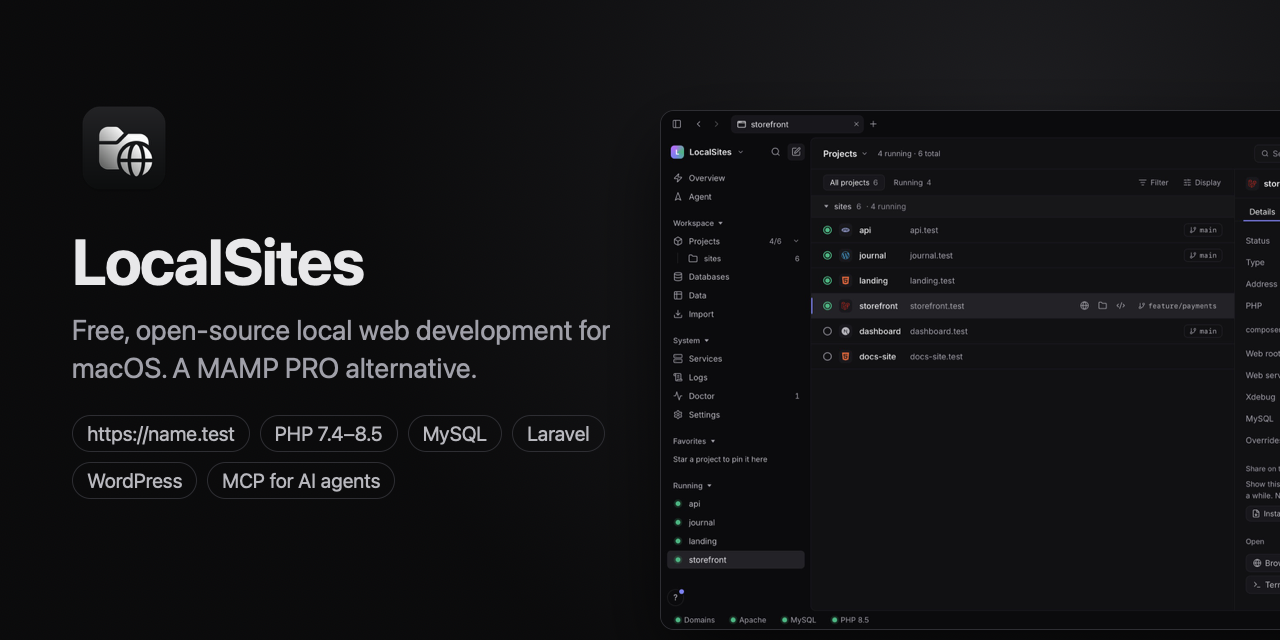
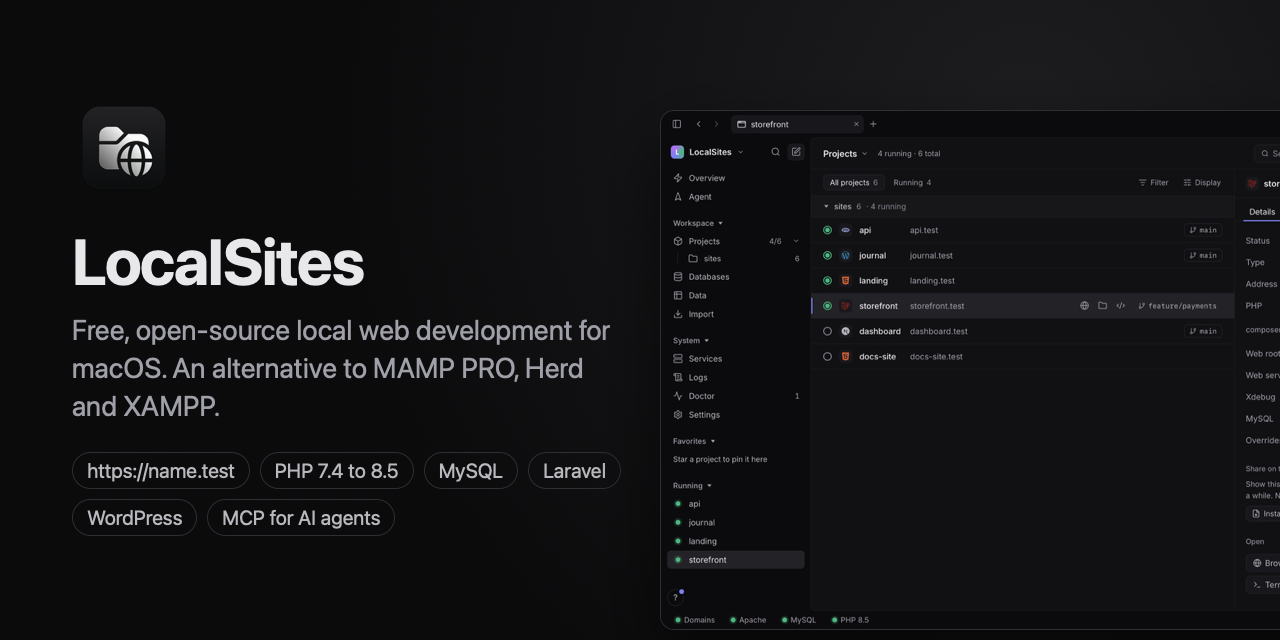
Remove en and em dashes from the website, README, docs and app text; plainer README intro and website copy; social preview lists MAMP PRO, Herd and XAMPP

Changed region(s): [[0.0625, 0.5625, 0.4688, 0.8438]]

diff --git a/desktop/frontend/dist/app.js b/desktop/frontend/dist/app.js
@@ -722,7 +722,7 @@ function row(s) {
 }
 
 /* --- detail panel --- */
-const statusIcon = { ok: '<span class="ok">✓</span>', warn: '<span class="warnc">!</span>', fail: '<span class="bad">✗</span>', skip: '<span class="note">–</span>' };
+const statusIcon = { ok: '<span class="ok">✓</span>', warn: '<span class="warnc">!</span>', fail: '<span class="bad">✗</span>', skip: '<span class="note">-</span>' };
 function checksTable(checks, withArea = true) {
   let area = '', h = '';
   for (const c of checks) {
@@ -823,7 +823,7 @@ function detailsPane(s) {
         <button class="btn" data-app="${prefApp('terminal').id}" data-folder="${esc(s.folder)}">${icon.terminal}${esc(prefApp('terminal').name)}</button>
         <button class="btn" data-app="${prefApp('editor').id}" data-folder="${esc(s.folder)}">${icon.code}${esc(prefApp('editor').name)}</button></div>
       ${s.git ? `<div class="st">Git<span class="spacer"></span><button class="btn ghost sm" data-dpane="git">${icon.branch}Open git</button></div>
-        <div class="kv"><span>Branch</span><code>${esc(s.git.branch || '—')}</code></div>
+        <div class="kv"><span>Branch</span><code>${esc(s.git.branch || 'none')}</code></div>
         ${s.git.account ? `<div class="kv"><span>Account</span><span class="form-row" style="gap:6px">${hostIcon(s.git.host)}${esc(s.git.account)}${s.git.host && !/\./.test(s.git.host) ? ` <span class="note">(SSH alias ${esc(s.git.host)})</span>` : ''}</span></div>` : ''}
         ${s.git.repo ? `<div class="kv"><span>Repository</span><span>${esc(s.git.repo)}</span></div>` : ''}` : ''}
       ${!valet && s.runtime !== 'none' ? `<div class="st">Connection<span class="spacer"></span><button class="btn ghost sm" data-check="${esc(s.folder)}" ${s.enabled ? '' : 'disabled'}>${icon.doctor}Check</button></div>
@@ -1093,7 +1093,7 @@ async function exportFlow(label, base, call) {
   const opt = await formDialog(`<h3>Export ${esc(label)}</h3><p class="note">Saves a .sql file you can import anywhere: here, on a server, or in another app.</p>
     <div class="choice" role="radiogroup" aria-label="What to export" style="margin-top:12px">${[['full', 'Structure and data', 'Tables, rows, views and routines.'], ['structure', 'Structure only', 'Tables and views without rows. Good for a fresh copy.'], ['data', 'Data only', 'Rows only, for tables that already exist.']].map(([v, l, d], i) =>
       `<label class="choice-row ${i ? '' : 'on'}"><input type="radio" name="xmode" value="${v}" ${i ? '' : 'checked'}><span><span class="label">${l}</span><span class="desc">${d}</span></span></label>`).join('')}</div>
-    <label class="form-row note" style="gap:8px;margin-top:12px"><input type="checkbox" id="xgz" checked> Compress (.sql.gz), usually 5–10× smaller</label>`,
+    <label class="form-row note" style="gap:8px;margin-top:12px"><input type="checkbox" id="xgz" checked> Compress (.sql.gz), usually 5 to 10 times smaller</label>`,
     (box) => ({ mode: box.querySelector('input[name="xmode"]:checked').value, gz: box.querySelector('#xgz').checked }), 'Choose where to save');
   if (!opt) return;
   const file = await pickSavePath(`${base}-${fileStamp()}${opt.mode === 'full' ? '' : '-' + opt.mode}.sql${opt.gz ? '.gz' : ''}`);
@@ -1494,7 +1494,7 @@ function viewData() {
         const modeSeg = `<div class="seg mode" role="group" aria-label="Mode"><button data-cmd="dview" class="${edit ? '' : 'on'}" title="Browse only: nothing can change">${icon.eye}View</button>
           <button data-cmd="dedit" class="${edit ? 'on' : ''}" ${noKey ? 'disabled title="This table has no primary key, so rows can’t be identified safely. Use SQL."' : 'title="Change, add and delete rows; nothing is saved until you review it"'}>${icon.edit}Edit</button></div>`;
         body = `<div class="dbar">${modeSeg}<div class="fchips inline">${dataFilterChips()}</div>
-          <span class="spacer"></span>${d.busy ? '<span class="spinner"></span>' : ''}<span class="note">${r && !r.error ? `${from.toLocaleString()}–${to.toLocaleString()} of ${total.toLocaleString()}${r.ms !== undefined ? ` · ${r.ms} ms` : ''}` : ''}</span>
+          <span class="spacer"></span>${d.busy ? '<span class="spinner"></span>' : ''}<span class="note">${r && !r.error ? `${from.toLocaleString()} to ${to.toLocaleString()} of ${total.toLocaleString()}${r.ms !== undefined ? ` · ${r.ms} ms` : ''}` : ''}</span>
           <button class="tb-btn" data-cmd="dprev" title="Previous page" ${d.page > 0 ? '' : 'disabled'}>${icon.back}</button><button class="tb-btn" data-cmd="dnext" title="Next page" ${to < total ? '' : 'disabled'}>${icon.fwd}</button>
           <button class="tb-btn" data-cmd="dexport" title="Export rows">${icon.download2}</button></div>
           ${edit ? `<div class="editbar" role="status"><span class="pill">${icon.edit}Editing</span><span class="note">Click a cell to change it. Nothing is written until you review and save.</span><span class="spacer"></span>
@@ -1984,7 +1984,7 @@ function updatesPage() {
     ${settingRow('Switch back', u?.kept ? `LocalSites ${esc(u.kept)} is kept from before the last update.` : 'After an update, the previous version is kept here so you can go back in one click.',
       UI.btn(u?.kept ? `Switch to ${u.kept}` : 'Nothing kept yet', { ic: 'history2', attrs: `data-cmd="updrollback" ${u?.kept && u?.supported ? '' : 'disabled'}` }))}
     <p class="note upd-safety">${icon.shield}<span>Every update is signed. Before installing, LocalSites checks the signature against the key built into this app, the download’s checksum, and that the new app starts on this Mac. If any check fails, the download is deleted and nothing changes.</span></p>
-    <h3 class="sub">What’s new</h3>
+    <h3 class="sub">What's new</h3>
     ${(v?.changelog || []).map(r => `<div class="release"><h3>${esc(r.version)} · ${esc(r.title)}</h3><div class="note">${esc(r.date)}</div><ul>${r.items.map(i => `<li>${esc(i)}</li>`).join('')}</ul></div>`).join('')}`;
 }
 /* --- problems: what went wrong on this Mac, and opt-in reports (cleaned, reviewed before sending) --- */
@@ -2112,7 +2112,7 @@ function viewSettings() {
     const list = S.storage || [], total = list.reduce((a, x) => a + x.bytes, 0);
     const size = (b) => b >= 1 << 30 ? (b / (1 << 30)).toFixed(1) + ' GB' : b >= 1 << 20 ? (b / (1 << 20)).toFixed(1) + ' MB' : Math.max(1, Math.round(b / 1024)) + ' KB';
     page = `<h2>Storage</h2><p class="lead">What LocalSites keeps on this Mac${S.storage ? `: ${size(total)} in total` : ''}. Clean-ups only remove files LocalSites made, and ask first.</p>
-      ${S.storage ? list.map(x => settingRow(`${x.name} · ${size(x.bytes)}`, esc(x.detail), x.clean ? UI.btn(x.can_clean ? 'Clean up' : 'Nothing to clean', { attrs: `data-storageclean="${esc(x.id)}" ${x.can_clean ? '' : 'disabled'}`, title: x.clean }) : '<span class="note">–</span>')).join('') : '<span class="skeleton" style="width:40%"></span>'}`;
+      ${S.storage ? list.map(x => settingRow(`${x.name} · ${size(x.bytes)}`, esc(x.detail), x.clean ? UI.btn(x.can_clean ? 'Clean up' : 'Nothing to clean', { attrs: `data-storageclean="${esc(x.id)}" ${x.can_clean ? '' : 'disabled'}`, title: x.clean }) : '<span class="note">Nothing to clean</span>')).join('') : '<span class="skeleton" style="width:40%"></span>'}`;
   } else if (sec === 'problems') {
     page = problemsPage();
   } else if (sec === 'updates') {
@@ -2435,7 +2435,7 @@ function showHelpMenu(anchor) {
     <button data-menu="goto-doctor">${icon.status}LocalSites status<span class="kb">${fails === null ? '' : fails ? `<span class="bad">${fails} problem${fails > 1 ? 's' : ''}</span>` : '<span class="ok">All good</span>'}</span></button>
     <button data-menu="clihelp">${icon.cli}Command-line tool</button>
     <button data-menu="goto-settings">${icon.settings}Settings<span class="kb">G then ,</span></button>
-    ${latest ? `<div class="label2">What’s new</div><div class="timeline">${latest.items.slice(0, 3).map(i => `<button data-menu="whatsnew" title="${esc(i)}"><span>${esc(i.split(/[:;,(—]/)[0].trim())}</span></button>`).join('')}
+    ${latest ? `<div class="label2">What's new</div><div class="timeline">${latest.items.slice(0, 3).map(i => `<button data-menu="whatsnew" title="${esc(i)}"><span>${esc(i.split(/[:;,(]/)[0].trim())}</span></button>`).join('')}
       <button data-menu="whatsnew">Full changelog</button></div>` : ''}`);
   if (S.version) { S.seenVersion = S.version.version; saveUI(); renderSide(); }
 }

diff --git a/site/index.html b/site/index.html
@@ -455,7 +455,7 @@ h1, h2, h3 { text-wrap: balance; }
     <div class="stats wrap" aria-label="LocalSites in numbers">
       <div class="stat reveal"><b>22 MB</b><span>The whole app</span></div>
       <div class="stat reveal"><b>24 MB</b><span>Background service at idle</span></div>
-      <div class="stat reveal"><b>7.4–8.5</b><span>PHP, per project</span></div>
+      <div class="stat reveal"><b>7.4 to 8.5</b><span>PHP, per project</span></div>
       <div class="stat reveal"><b>$0</b><span>Free and open source, for good</span></div>
     </div>
   </div>
@@ -481,7 +481,7 @@ h1, h2, h3 { text-wrap: balance; }
         <div class="tile reveal">
           <div class="viz"><div class="chips"><span class="chip">7.4</span><span class="chip">8.0</span><span class="chip">8.2</span><span class="chip">8.3</span><span class="chip">8.4</span><span class="chip on">8.5</span></div></div>
           <h3>PHP 7.4 to 8.5, per project</h3>
-          <p>Each project gets its own PHP-FPM pool. Laravel uses the version composer.json asks for. Xdebug only where you need it.</p>
+          <p>Each project gets its own PHP-FPM pool. Laravel uses the version composer.json asks for. Turn on Xdebug only for the project you're debugging.</p>
         </div>
         <div class="tile reveal">
           <div class="viz"><div class="chips"><span class="chip on">Apache</span><span class="chip">Nginx</span></div><div class="chips"><span class="chip">.htaccess</span><span class="chip">pretty URLs</span><span class="chip">web root</span></div></div>
@@ -587,7 +587,7 @@ h1, h2, h3 { text-wrap: balance; }
       <div class="head reveal">
         <div class="eyebrow">Switching</div>
         <h2>Coming from MAMP PRO, Herd, XAMPP or Valet?</h2>
-        <p class="sub">Bring what you already have. Databases are copied, never moved, and checked row by row before you switch.</p>
+        <p class="sub">Bring what you already have. LocalSites copies your databases, leaves the originals where they are, and checks every row before you switch.</p>
       </div>
       <div class="cmp-wrap reveal" role="region" aria-label="LocalSites compared with MAMP PRO, Laravel Herd, XAMPP, Laravel Valet and Local" tabindex="0">
         <table class="cmp">
@@ -608,7 +608,7 @@ h1, h2, h3 { text-wrap: balance; }
       <div class="switch">
         <div class="tile reveal"><h3>MAMP PRO and MAMP</h3><p>Copy your databases in one step. The source is only read, and every table is checked row by row. Browse MAMP's MySQL in the data browser while you move over.</p></div>
         <div class="tile reveal"><h3>XAMPP</h3><p>The same one-step copy for XAMPP's databases, verified table by table. Your XAMPP install isn't changed.</p></div>
-        <div class="tile reveal"><h3>Laravel Valet</h3><p>Works alongside it. LocalSites uses Valet's domains and certificates, leaves your Valet sites where they are, and can move one over in one click.</p></div>
+        <div class="tile reveal"><h3>Laravel Valet</h3><p>LocalSites runs alongside Valet. It uses Valet's domains and certificates, leaves your Valet sites where they are, and can move one over in one click.</p></div>
         <div class="tile reveal"><h3>Laravel Herd, DBngin or another MySQL</h3><p>Export your databases with the tool you use today, then import the <code>.sql</code>, <code>.sql.gz</code> or <code>.zip</code> file. Each project gets its own login.</p></div>
         <div class="tile reveal"><h3>Local and other WordPress setups</h3><p>Add the site's folder and import its database export. WordPress is detected automatically and served at <code>https://name.test</code>.</p></div>
         <div class="tile reveal"><h3>Docker, Next.js and Node</h3><p>Keep your <code>docker compose</code> setup or dev server. LocalSites runs the command and serves it at <code>https://name.test</code>.</p></div>
@@ -656,7 +656,7 @@ xampp     XAMPP     yes        yes
     <div class="wrap">
       <div class="head reveal">
         <div class="eyebrow">Support</div>
-        <h2>Free for everyone. Kept going by people like you.</h2>
+        <h2>Free for everyone, and kept going by people like you.</h2>
         <p class="sub">LocalSites has no ads, no paid tier and no tracking. If it saves you time, a coffee helps keep it that way.</p>
       </div>
       <div class="support">
@@ -682,7 +682,7 @@ xampp     XAMPP     yes        yes
         <div class="tile opt reveal">
           <span class="ic" aria-hidden="true"><svg viewBox="0 0 24 24" fill="none" stroke="currentColor" stroke-width="2" stroke-linecap="round" stroke-linejoin="round"><path d="M17 8h1a4 4 0 1 1 0 8h-1"/><path d="M3 8h14v9a4 4 0 0 1-4 4H7a4 4 0 0 1-4-4Z"/><path d="M6 2v2M10 2v2M14 2v2"/></svg></span>
           <h3>Buy Me a Coffee</h3>
-          <p>Buy a coffee, or a few. A quick checkout with a card, no account needed.</p>
+          <p>Buy a coffee, or a few. You pay by card and don't need an account.</p>
           <div class="amounts"><span class="chip">One-off</span><span class="chip">Monthly</span></div>
           <a class="btn" href="{{buy_me_a_coffee}}">Buy a coffee <span aria-hidden="true">&rarr;</span></a>
         </div>

diff --git a/desktop/frontend/dist/styles.css b/desktop/frontend/dist/styles.css
@@ -838,7 +838,7 @@ table.ports td { height: auto; padding-top: 8px; padding-bottom: 8px; vertical-a
 .lt-panel-760 table.ports th:nth-child(3), .lt-panel-760 table.ports td:nth-child(3) { display: none; }
 .lt-panel-760 table.ports th:nth-child(2) { width: auto; }
 
-/* Responsive fixes found by the layout audit (every screen at 600–1440 px) */
+/* Responsive fixes found by the layout audit (every screen at 600 to 1440 px) */
 .topbar, .topbar * { -webkit-user-select: none; user-select: none; }
 .nowrap { white-space: nowrap; }
 table.dbt { table-layout: auto; }

diff --git a/internal/dbclient/dbclient.go b/internal/dbclient/dbclient.go
@@ -783,7 +783,7 @@ func (m *Manager) Query(id string, r QueryRequest) (Result, error) {
 	err = readOnly(db, c.Driver, func(tx *sql.Tx) error { return run(tx) })
 	res.MS = time.Since(start).Milliseconds()
 	if err != nil && !write && looksLikeWrite(sqlText) {
-		return res, fmt.Errorf("%v — this connection is read-only. Turn on “Allow changes” for it to run statements that change data", friendly(err))
+		return res, fmt.Errorf("%v. This connection is read-only. Turn on “Allow changes” for it to run statements that change data", friendly(err))
 	}
 	return res, friendly(err)
 }

diff --git a/cmd/localsites/main.go b/cmd/localsites/main.go
@@ -459,7 +459,7 @@ func printChecks(b []byte) error {
 	if err := json.Unmarshal(b, &checks); err != nil {
 		return err
 	}
-	icons := map[string]string{"ok": "✓", "warn": "!", "fail": "✗", "skip": "–"}
+	icons := map[string]string{"ok": "✓", "warn": "!", "fail": "✗", "skip": "-"}
 	area, failed := "", 0
 	for _, c := range checks {
 		if c.Area != area {

diff --git a/docs/PLAN.md b/docs/PLAN.md
@@ -1,4 +1,4 @@
-# LocalSites — end-to-end plan and build tracker
+# LocalSites: end-to-end plan and build tracker
 
 The single source of truth for **what is built, what is partly built, and what is not started**, with the test
 that proves each piece. Update this file in the same change that adds or finishes a feature.
@@ -12,7 +12,7 @@ _Last updated: 2026-10-27 (v0.3.0)_
 
 ## 1. Goal
 
-A free, open-source, MAMP PRO–class local environment for PHP & MySQL that is **light (≈12 MB app), keyboard-first
+A free, open-source, MAMP PRO-class local environment for PHP & MySQL that is **light (≈12 MB app), keyboard-first
 (a fast, keyboard-first UI), secure by default, and drivable by people, scripts and AI agents (CLI `--json`, local API, MCP)**,
 on macOS, Windows and Linux, with optional Docker per project.
 
@@ -26,7 +26,7 @@ on macOS, Windows and Linux, with optional Docker per project.
 
 ---
 
-## 3. Phase 1 — macOS, daily-usable (current)
+## 3. Phase 1: macOS, daily-usable (current)
 
 ### 3.1 Core engine
 
@@ -69,7 +69,7 @@ on macOS, Windows and Linux, with optional Docker per project.
 |---|---|---|---|
 | Apache 2.4 with `.htaccess` | ✅ | E | TLS on 127.0.0.1 |
 | One PHP-FPM pool per project | ✅ | E | own temp dir, logs, `clear_env` |
-| PHP 7.4 / 8.0 / 8.2 / 8.3 / 8.5 switch per project | ✅ | E UI | Homebrew 7.1–7.3 builds crash → hidden |
+| PHP 7.4 / 8.0 / 8.2 / 8.3 / 8.5 switch per project | ✅ | E UI | Homebrew 7.1 to 7.3 builds crash → hidden |
 | MAMP-compatible php.ini defaults | ✅ | M | `output_buffering=4096` etc. |
 | Per-project php.ini overrides (UI) | ✅ | e2e | same allowlist and value checks as Settings → PHP |
 | Web root auto-detect (`public/`) | ✅ | E | |
@@ -152,7 +152,7 @@ on macOS, Windows and Linux, with optional Docker per project.
 
 ---
 
-## 4. Phase 2 — Docker, add-ons, deeper agent support
+## 4. Phase 2: Docker, add-ons, deeper agent support
 
 | Item | Status |
 |---|---|
@@ -165,7 +165,7 @@ on macOS, Windows and Linux, with optional Docker per project.
 | MCP resources (logs, configs) + prompts ("diagnose site") | ✅ |
 | Agent activity: approve/deny queue for destructive calls in the app | ✅ |
 
-## 5. Phase 3 — Windows, Linux, public release
+## 5. Phase 3: Windows, Linux, public release
 
 | Item | Status |
 |---|---|
@@ -215,7 +215,7 @@ Rule: every release adds an entry to `changelog.json` in the same change.
 
 | Issue | Impact | Plan |
 |---|---|---|
-| Homebrew PHP 7.1–7.3 crash on start; 7.4 `intl` broken | those versions unavailable / partial | static PHP builds (phase 3) |
+| Homebrew PHP 7.1 to 7.3 crash on start; 7.4 `intl` broken | those versions unavailable / partial | static PHP builds (phase 3) |
 | Built-in front door needs one-time OS setup | only Valet mode is fully set up today | installer helper |
 | Agent box is rule-based | understands common phrases only | by design; real AI via MCP |
 | Prototype `~/.localsites` still on disk | none (stopped) | remove after migration |
@@ -231,4 +231,4 @@ Rule: every release adds an entry to `changelog.json` in the same change.
 - [ ] Retire MAMP PRO
 - [x] MIT license
 - [x] First git commit of `localsites-app`
-- [ ] Add `~/Documents/websites` (Laravel, Valet) and `~/Documents/Project` (Next.js, account groups) as folders — done by the app owner or in setup
+- [ ] Add `~/Documents/websites` (Laravel, Valet) and `~/Documents/Project` (Next.js, account groups) as folders (done by the app owner or in setup)

diff --git a/docs/ROADMAP-2.md b/docs/ROADMAP-2.md
@@ -1,6 +1,6 @@
 # Roadmap 2: lighter, safer, and things no other local dev tool does
 
-Status: plan, 2026-11-01. Builds on [ROADMAP.md](ROADMAP.md) (steps 1–8 done or waiting on an Apple Developer ID).
+Status: plan, 2026-11-01. Builds on [ROADMAP.md](ROADMAP.md) (steps 1 to 8 done or waiting on an Apple Developer ID).
 
 ## Where we are (measured on the owner's Mac, idle, 44 projects, 1 running)
 
@@ -17,7 +17,7 @@ Status: plan, 2026-11-01. Builds on [ROADMAP.md](ROADMAP.md) (steps 1–8 done o
 
 | # | Change | Expected effect |
 |---|---|---|
-| 1.1 | MySQL tuned for local work: `performance_schema=OFF`, 32–64 MB buffer pool (grows with data size), 16 MB redo log, small caches, 50 connections | ~460 MB → ~90 MB RAM; ~207 MB → ~70 MB disk |
+| 1.1 | MySQL tuned for local work: `performance_schema=OFF`, 32 to 64 MB buffer pool (grows with data size), 16 MB redo log, small caches, 50 connections | ~460 MB → ~90 MB RAM; ~207 MB → ~70 MB disk |
 | 1.2 | Start MySQL, PostgreSQL and add-ons **on demand**: when a project that uses them is on, or when you open Databases/Data; stop after 20 min unused (setting) | 0 MB when you only use MAMP's MySQL |
 | 1.3 | Event-driven updates instead of polling: the service pushes changes to the app (one long-lived stream); folders are watched with FSEvents instead of rescanned | done in v0.14.0 (`events.wait` long poll; folders still rescanned every 60 s while the window is focused). Measured before: service 1.25 % CPU idle, all of it from the app's polling |
 | 1.4 | App closed to the menu bar frees its page (the web view is reloaded on open) | done in v0.14.0. Measured: page process 47 → 36 MB, timers stopped. WebKit keeps its page process, so the estimated −40 MB isn't reachable this way |
@@ -89,12 +89,12 @@ Local list of crashes (Go panics via `debug.SetCrashOutput`, macOS `.ips` report
 
 | Phase | Items | Size | Needs from the owner |
 |---|---|---|---|
-| A (done in v0.12.0) | 1.1, 1.2, 1.5, 1.6, 6.4, 6.5 | M | – (measured: MySQL 486 → 172 MB RAM, 187 → 118 MB disk; 0 MB while asleep) |
-| B | 3.1, 3.2 (next); 1.3, 1.4 done in v0.14.0 | M | – |
-| C | 5.1 branch previews, 5.2 time machine | L | – |
-| D | 4.2 GitLab, 4.4 Ollama, 4.7 editors, 5.5 clone & run | M | – |
-| E | 5.4 inspector, 5.6 agent undo, 6.2, 6.3, 6.7 | L | – |
-| F | 2.x updates (2.1–2.4 and channels done in v0.13.0), 6.1, 6.8, Homebrew cask | M | Apple Developer ID (name decided: LocalSites) |
+| A (done in v0.12.0) | 1.1, 1.2, 1.5, 1.6, 6.4, 6.5 | M | nothing (measured: MySQL 486 → 172 MB RAM, 187 → 118 MB disk; 0 MB while asleep) |
+| B | 3.1, 3.2 (next); 1.3, 1.4 done in v0.14.0 | M | nothing |
+| C | 5.1 branch previews, 5.2 time machine | L | nothing |
+| D | 4.2 GitLab, 4.4 Ollama, 4.7 editors, 5.5 clone & run | M | nothing |
+| E | 5.4 inspector, 5.6 agent undo, 6.2, 6.3, 6.7 | L | nothing |
+| F | 2.x updates (2.1 to 2.4 and channels done in v0.13.0), 6.1, 6.8, Homebrew cask | M | Apple Developer ID (name decided: LocalSites) |
 | G | 3.3 ntfy, 4.3, 4.5, 4.6, 5.3, 5.7 | M | which issue tracker and chat the team uses |
 
 Every phase ships like before: unit + e2e + UI tests, measured before/after for anything that claims to save memory or disk, changelog entry, PLAN.md rows.

diff --git a/docs/ROADMAP.md b/docs/ROADMAP.md
@@ -17,19 +17,19 @@ Status: plan, 2026-10-27. Tracking of built items stays in [PLAN.md](PLAN.md).
 | MAMP PRO screen | What it does | Us today | Plan |
 |---|---|---|---|
 | Hosts | sites, PHP per host, aliases | ✅ projects in many folders, PHP/Node/custom/Docker | add aliases and extra domains per project (A2) |
-| Ports & User | ports, run as user | ✅ Settings → Domains & ports | – |
+| Ports & User | ports, run as user | ✅ Settings → Domains & ports | done |
 | Editor | built-in code editor | open in VS Code etc. | one-click open in any installed editor (C1); no built-in editor |
-| Cloud | paid backup/sync | – | not planned (paid); git covers sharing |
+| Cloud | paid backup/sync | not built | not planned (paid); git covers sharing |
 | Apache modules | toggle modules | fixed safe set | module list with toggles (A3) |
 | Nginx | alternative web server | Apache only | Nginx as a per-project choice (A3) |
 | MySQL | root password, network access, admin tools | ✅ per-project logins, data browser | root password change, LAN access toggle (A4) |
-| Dynamic DNS | DNS-O-Matic, No-IP… | – | replaced by share tunnels, which need no router setup (B1) |
-| Memcached | cache server | – | add-on (A1) |
-| Redis | cache server | – | add-on, Valkey or Redis (A1) |
-| MailHog | catch outgoing mail | – | Mailpit add-on, wired into every PHP project automatically (A1) |
+| Dynamic DNS | DNS-O-Matic, No-IP… | not built | replaced by share tunnels, which need no router setup (B1) |
+| Memcached | cache server | not built | add-on (A1) |
+| Redis | cache server | not built | add-on, Valkey or Redis (A1) |
+| MailHog | catch outgoing mail | not built | Mailpit add-on, wired into every PHP project automatically (A1) |
 | PHP | versions, extensions, Xdebug | ✅ versions, php.ini per project | extensions list, Xdebug toggle per project (A3) |
 | Other languages | Python, Ruby, Node | ✅ Node; custom command for anything | detected Python/Ruby/Go projects (A2) |
-| Recent hosts | quick list | ✅ Running + Favorites + palette | – |
+| Recent hosts | quick list | ✅ Running + Favorites + palette | done |
 | GroupStart | start a set together | ✅ everything switched on starts together | per-project "needs Redis + Mailpit" (A1) |
 
 Things MAMP PRO doesn't do that we already do: real HTTPS on `.test`, Laravel/Next.js detection, git panel,
@@ -97,7 +97,7 @@ CI status for the current branch in the git panel. Read-only; uses the CLI's own
 MCP server to their config (backup first, shown as a diff, undo button).
 
 **D2. Richer MCP:** resources (logs, generated configs, project files list), prompts ("diagnose this site",
-"set up Laravel locally", "why is mail not sending"), tools for every new feature in A–C.
+"set up Laravel locally", "why is mail not sending"), tools for every new feature in A to C.
 
 **D3. Approval queue:** destructive agent calls (stop, restart, data writes, shares) wait in the app for
 Approve / Deny, with the exact change shown. Replaces the `confirm: true` convention.

diff --git a/README.md b/README.md
@@ -4,7 +4,7 @@
 
 # LocalSites
 
-**The free, open-source alternative to MAMP PRO, Laravel Herd and XAMPP for macOS, built for the age of AI agents.**
+**A free, open-source alternative to MAMP PRO, Laravel Herd and XAMPP for macOS, with an MCP server for AI coding agents.**
 
 Every project folder gets a real `https://name.test` address. PHP, MySQL, Node, Laravel, WordPress and Next.js
 work out of the box. A 22 MB native app, a CLI and an MCP server share one engine, so you and your AI coding agent
@@ -35,14 +35,17 @@ run the same local stack.
 
 ## Why LocalSites
 
-- **Free and open source, for good.** MIT licence. No accounts, trials, upsells or telemetry. Problem reports are
-  off until you turn them on, and you see each one before it's sent.
-- **Real HTTPS, no ports, no fiddling.** Drop a folder in `~/Sites` and open `https://shop.test`. Real
-  certificates, isolated PHP per project, a database login per project.
-- **Built for you *and* your AI agent.** Claude, Cursor, VS Code and Windsurf connect in one click over MCP.
-  Agents can list projects, switch PHP, read logs and run health checks. Anything risky waits for **your** Approve.
-- **Small and quiet.** A 22 MB app on the system web view. At idle the background service uses about 24 MB of
-  memory and does nothing until something changes. MySQL sleeps when nothing needs it.
+LocalSites is free and open source under the MIT licence, with no accounts, trials, upsells or telemetry. Problem
+reports stay off until you turn them on, and you see each report before it's sent.
+
+Drop a folder in `~/Sites` and open `https://shop.test`. Each project gets a real certificate, its own PHP pool and
+its own database login, and you never type a port number.
+
+Claude, Cursor, VS Code and Windsurf connect over MCP in one click. Agents can list projects, switch PHP, read logs
+and run health checks, and anything risky waits for you to click Approve.
+
+The app is 22 MB because it uses the system web view. At idle the background service uses about 24 MB of memory and
+does nothing until something changes. MySQL sleeps when nothing needs it.
 
 ## Features
 
@@ -264,7 +267,7 @@ Found a security problem? Please report it privately (see [SECURITY.md](SECURITY
 | Engine and CLI | ✅ | compiles, not yet usable | compiles, not yet usable |
 | PHP / Apache / MySQL runtimes | ✅ Homebrew | planned | planned |
 | HTTPS domains | ✅ Valet or built-in | planned | planned |
-| Import from MAMP PRO / MAMP / XAMPP | ✅ | — | planned |
+| Import from MAMP PRO / MAMP / XAMPP | ✅ | not needed (no MAMP on Linux) | planned |
 
 See [docs/ROADMAP.md](docs/ROADMAP.md) and [docs/PLAN.md](docs/PLAN.md) for what's next.
 
